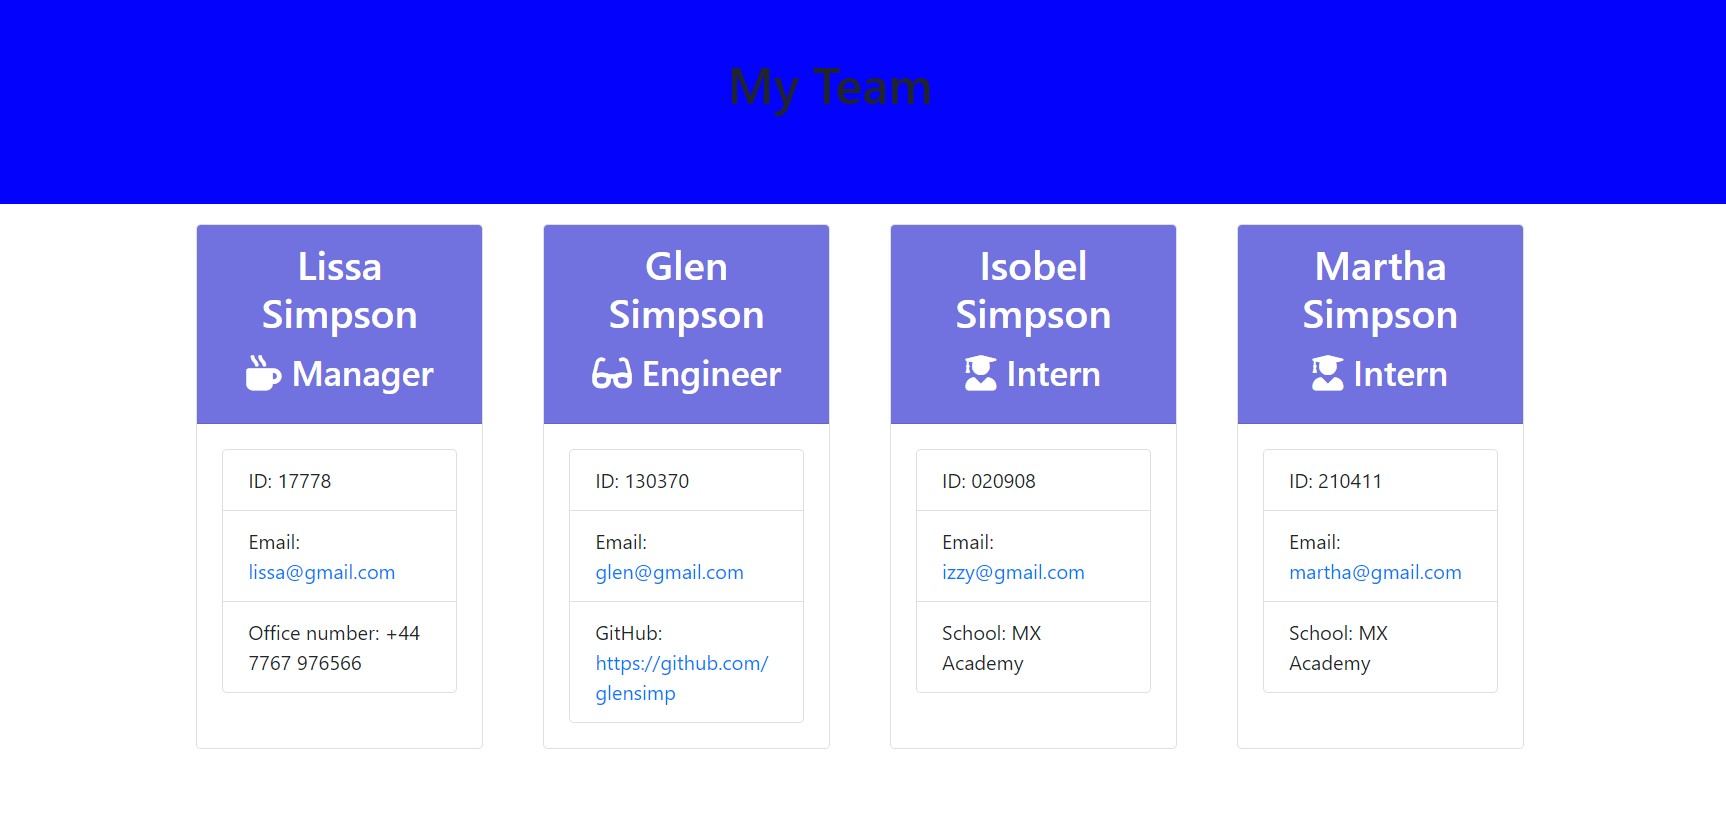
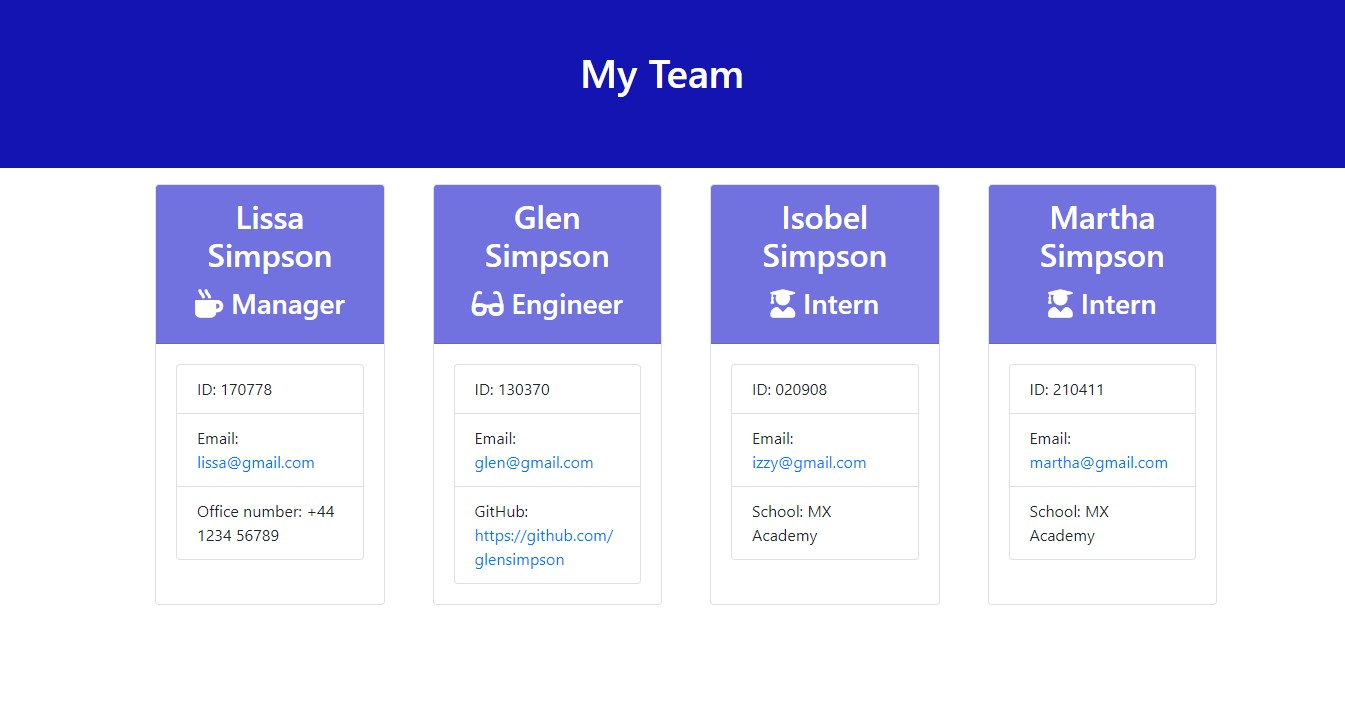
team html generated

diff --git a/starter/output/team.html b/starter/output/team.html
@@ -9,7 +9,7 @@
     <title>My Team</title>
     <link rel="stylesheet" href="https://stackpath.bootstrapcdn.com/bootstrap/4.3.1/css/bootstrap.min.css"
         integrity="sha384-ggOyR0iXCbMQv3Xipma34MD+dH/1fQ784/j6cY/iJTQUOhcWr7x9JvoRxT2MZw1T" crossorigin="anonymous">
-    <link rel="stylesheet" href="style.css">
+    <link rel="stylesheet" href="./styles.css">
     <script src="https://kit.fontawesome.com/c502137733.js"></script>
 </head>
 
@@ -27,28 +27,56 @@
                 
         <div class="card employee-card">
         <div class="card-header">
-            <h2 class="card-title">Lissa</h2>
+            <h2 class="card-title">Lissa Simpson</h2>
             <h3 class="card-title"><i class="fas fa-mug-hot mr-2"></i>Manager</h3>
         </div>
         <div class="card-body">
             <ul class="list-group">
-                <li class="list-group-item">ID: ckjnjc</li>
-                <li class="list-group-item">Email: <a href="mailto:l@m.com">l@m.com</a></li>
-                <li class="list-group-item">Office number: xx</li>
+                <li class="list-group-item">ID: 170778</li>
+                <li class="list-group-item">Email: <a href="mailto:lissa@gmail.com">lissa@gmail.com</a></li>
+                <li class="list-group-item">Office number: +44 1234 56789</li>
             </ul>
         </div>
     </div>
         
         <div class="card employee-card">
     <div class="card-header">
-        <h2 class="card-title">xczxc</h2>
+        <h2 class="card-title">Glen Simpson</h2>
         <h3 class="card-title"><i class="fas fa-glasses mr-2"></i>Engineer</h3>
     </div>
     <div class="card-body">
         <ul class="list-group">
-            <li class="list-group-item">ID: zxc</li>
-            <li class="list-group-item">Email: <a href="mailto:l@m.com">l@m.com</a></li>
-            <li class="list-group-item">GitHub: <a href="https://github.com/xzx" target="_blank" rel="noopener noreferrer">xzx</a></li>
+            <li class="list-group-item">ID: 130370</li>
+            <li class="list-group-item">Email: <a href="mailto:glen@gmail.com">glen@gmail.com</a></li>
+            <li class="list-group-item">GitHub: <a href="https://github.com/https://github.com/glensimpson" target="_blank" rel="noopener noreferrer">https://github.com/glensimpson</a></li>
+        </ul>
+    </div>
+</div>
+        
+        <div class="card employee-card">
+    <div class="card-header">
+        <h2 class="card-title">Isobel Simpson</h2>
+        <h3 class="card-title"><i class="fas fa-user-graduate mr-2"></i>Intern</h3>
+    </div>
+    <div class="card-body">
+        <ul class="list-group">
+            <li class="list-group-item">ID: 020908</li>
+            <li class="list-group-item">Email: <a href="mailto:izzy@gmail.com">izzy@gmail.com</a></li>
+            <li class="list-group-item">School: MX Academy</li>
+        </ul>
+    </div>
+</div>
+        
+        <div class="card employee-card">
+    <div class="card-header">
+        <h2 class="card-title">Martha Simpson</h2>
+        <h3 class="card-title"><i class="fas fa-user-graduate mr-2"></i>Intern</h3>
+    </div>
+    <div class="card-body">
+        <ul class="list-group">
+            <li class="list-group-item">ID: 210411</li>
+            <li class="list-group-item">Email: <a href="mailto:martha@gmail.com">martha@gmail.com</a></li>
+            <li class="list-group-item">School: MX Academy</li>
         </ul>
     </div>
 </div>

diff --git a/starter/output/styles.css b/starter/output/styles.css
@@ -1,11 +1,19 @@
 .card-header {
-    color: white !important;
+    color: #ffffff !important;
     text-align: center;
     background-color: #7272df !important;
 }
 
+.team-heading {
+    background-color: #1414b1;
+}
+
+h1 {
+    color: #ffffff;
+}
+
 .card-title {
-    color: white !important;
+    color: #ffffff !important;
 }
 
 .card {
